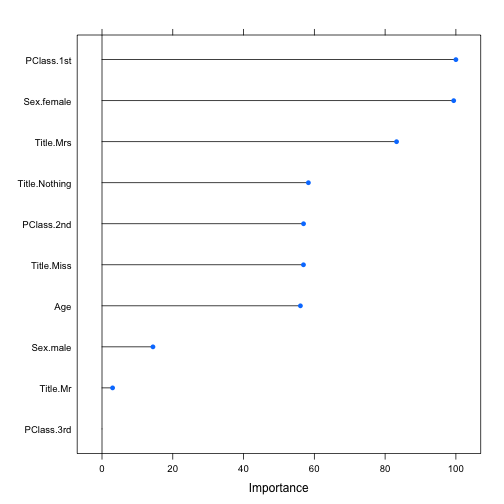
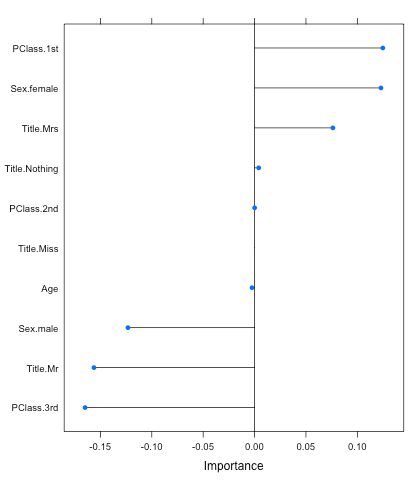
u

Changed region(s): [[0.0, 0.0312, 0.9879, 1.0], [0.6102, 0.25, 0.8136, 0.3125], [0.6102, 0.4062, 0.6392, 0.4375]]

diff --git a/_posts/2014-10-22-binary-outcome-modeling.md b/_posts/2014-10-22-binary-outcome-modeling.md
@@ -389,35 +389,18 @@ print(auc$auc)
 ```
 ## Area under the curve: 0.857
 ```
-This is a stronger **AUC** score than our previous **gbm** model. You can also call the **caret** function ``varImp`` to find the important variables:
+This is a stronger **AUC** score than our previous **gbm** model. 
+
+You can also call the **caret** function ``varImp`` to figure out which variables were important to the model. And this is one great feature of the **glmnet** model, it returns positive and negative variable importance unlike most models. This helps you understand your variables, such that being in ``PClass.1st`` leans the probabilites in the survivor's favor while PClass.3rd does the opposite (make sure you set ``scale`` to False):
 
 ```r
-plot(varImp(objModel))
+plot(varImp(objModel,scale=F))
 ```
 
 ![plot of chunk unnamed-chunk-10](../img/posts/binary-outcomes/unnamed-chunk-21.png) 
 <BR><BR>
  
 But the one think I love about the **glmnet** model is that it returns positive and negative variable importance unlike most models. This helps you understand your variables, such that being in ``PClass.1st`` leans the probabilites in the survivor's favor while PClass.3rd does the opposite.
-
-```r
-# display variable importance on a +/- scale
-vimp <- varImp(objModel, scale=F)
-results <- data.frame(row.names(vimp$importance),vimp$importance$Overall)
-results$VariableName <- rownames(vimp)
-colnames(results) <- c('VariableName','Weight')
-results <- results[order(results$Weight),]
-results <- results[(results$Weight != 0),]
-
-par(mar=c(5,15,4,2)) # increase y-axis margin. 
-xx <- barplot(results$Weight, width = 0.85, 
-              main = paste("Variable Importance -",outcomeName), horiz = T, 
-              xlab = "< (-) importance >  < neutral >  < importance (+) >", axes = FALSE, 
-              col = ifelse((results$Weight > 0), 'blue', 'red')) 
-axis(2, at=xx, labels=results$VariableName, tick=FALSE, las=2, line=-0.3, cex.axis=0.6)  
-```
-
-![plot of chunk unnamed-chunk-10](../img/posts/binary-outcomes/unnamed-chunk-22.png) 
 
 <BR><BR>  
 <a id="sourcecode">Full source code (<a href='https://github.com/amunategui/SimpleEnsembleBlending' target='_blank'>also on GitHub</a>)</a>:
@@ -544,12 +527,12 @@ postResample(pred=predictions, obs=testDF[,outcomeName])
  
 # find out variable importance
 summary(objModel)
-plot(varImp(objModel))
+plot(varImp(objModel,scale=F))
 
 # find out model details
 objModel
 
-# display variable importance on a +/- scale
+# display variable importance on a +/- scale 
 vimp <- varImp(objModel, scale=F)
 results <- data.frame(row.names(vimp$importance),vimp$importance$Overall)
 results$VariableName <- rownames(vimp)
